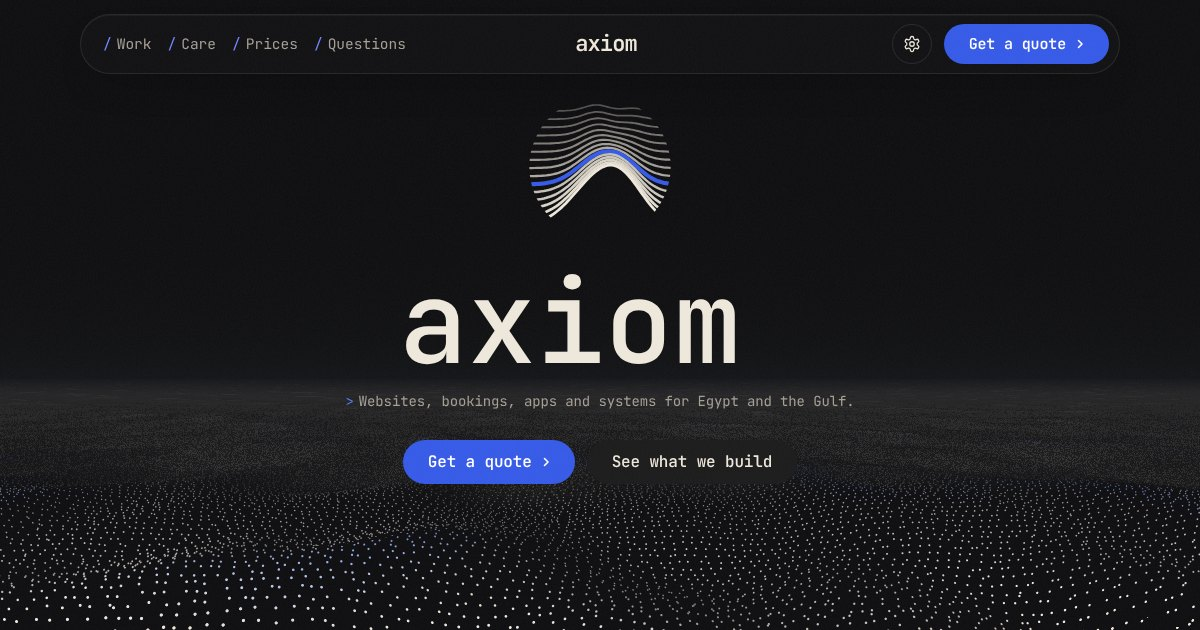
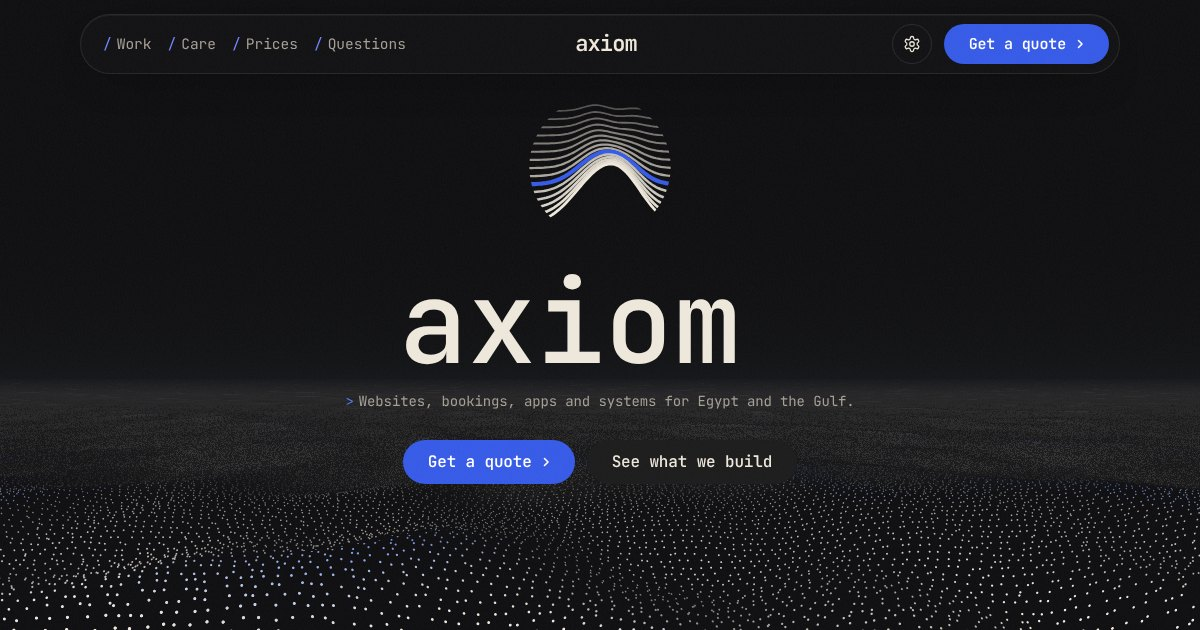
Faster first screen: the intro starts with the first paint, lighter fonts, a shorter opening
Claude-Session: https://claude.ai/code/session_01V4BmkqRESwyhbSGPUhMTQV

diff --git a/assets/css/site.css b/assets/css/site.css
@@ -361,7 +361,7 @@ html[lang="ar"] .hero--field .hero__lead { font-family: "Readex Pro", var(--font
 .hero__mark { width: clamp(140px, 13vw, 190px); height: auto; overflow: visible; margin-bottom: var(--s-2); color: #ede7da; }
 html[data-theme="light"] .hero__mark { color: #141416; }
 .tm-l { stroke: currentColor; stroke-dasharray: 1; stroke-dashoffset: 1;
-  animation: tm-draw 1.3s cubic-bezier(.65,0,.35,1) calc(.1s + var(--i) * 55ms) forwards; }
+  animation: tm-draw .9s cubic-bezier(.65,0,.35,1) calc(var(--i) * 30ms) forwards; }
 .tm-crest { stroke: var(--logo-b, #3358e6); }
 @keyframes tm-draw { to { stroke-dashoffset: 0; } }
 @keyframes tm-fade { to { opacity: 1; } }
@@ -370,9 +370,9 @@ html[data-theme="light"] .hero__mark { color: #141416; }
 /* the name, with its terminal cursor */
 .hero__cursor { display: inline-block; width: .42em; height: .1em; align-self: flex-end; margin-block-end: .16em; margin-inline-start: .1em;
   background: var(--logo-b, #3358e6); animation: pm-blink 1.1s steps(1) infinite; }
-.hero--field .hero__lead, .hero--field .btn-row { animation: pm-rise .7s cubic-bezier(.22,1,.36,1) both; }
-.hero--field .hero__lead { animation-delay: .5s; }
-.hero--field .btn-row { animation-delay: .65s; }
+.hero--field .hero__lead, .hero--field .btn-row { animation: pm-rise .5s cubic-bezier(.22,1,.36,1) both; }
+.hero--field .hero__lead { animation-delay: .12s; }
+.hero--field .btn-row { animation-delay: .22s; }
 @keyframes pm-rise { from { opacity: 0; transform: translateY(10px); } to { opacity: 1; transform: none; } }
 
 @media (prefers-reduced-motion: reduce) {
@@ -408,9 +408,7 @@ main > :is(section, .section):not(.hero), footer.closing { height: auto; min-hei
 /* ================================================================ the intro waits for its cue (site.js) */
 html.js-intro:not(.is-ready) :is(.tm-l, .hero__cursor),
 html.js-intro:not(.is-ready) .hero--field :is(.hero__lead, .btn-row) { animation-play-state: paused !important; }
-html.js-intro:not(.is-ready) .hero__name { opacity: 0; }
-.hero__name { transition: opacity .6s cubic-bezier(.22,1,.36,1) .25s; }
-.hero--field .hero__fx canvas { transition: opacity 1.1s ease !important; }
+.hero--field .hero__fx canvas { transition: opacity .6s ease !important; }
 
 /* ================================================================ settings: language and theme */
 .set { position: relative; }

diff --git a/index.html b/index.html
@@ -15,10 +15,10 @@
 <!-- <link rel="canonical" href="https://[the client's domain]/"> -->
 <meta name="site-kind" content="software">
 <meta name="page-type" content="software">
-<script>try{var d=document.documentElement;d.classList.add("js-intro");if(localStorage.getItem("axiom.theme")==="light"){d.dataset.theme="light";}}catch(e){}</script>
+<script>(function(){var d=document.documentElement,go=function(){d.classList.add("is-ready")};d.classList.add("js-intro");try{if(localStorage.getItem("axiom.theme")==="light"){d.dataset.theme="light";}var l=localStorage.getItem("axiom.lang");if(l==="ar"||l==="en"){var f=document.fonts?document.fonts.ready:null;setTimeout(go,400);if(f)f.then(function(){requestAnimationFrame(go)});}}catch(e){go();}})();</script>
 <link rel="preconnect" href="https://fonts.googleapis.com">
 <link rel="preconnect" href="https://fonts.gstatic.com" crossorigin>
-<link href="https://fonts.googleapis.com/css2?family=Outfit:wght@400..700&family=JetBrains+Mono:wght@300..700&family=DM+Mono:wght@400;500&family=Readex+Pro:wght@400;500&display=swap" rel="stylesheet">
+<link href="https://fonts.googleapis.com/css2?family=JetBrains+Mono:wght@400;500;600&family=Readex+Pro:wght@400;500&family=Outfit:wght@400;500;600&display=swap" rel="stylesheet">
 <link rel="stylesheet" href="assets/system.css">
 <link rel="stylesheet" href="assets/ui/cards.css">
 <link rel="stylesheet" href="assets/motion/motion.css">
@@ -45,7 +45,7 @@ html[lang="ar"] { --font-display: "Readex Pro", "JetBrains Mono", sans-serif; --
 <link rel="stylesheet" href="assets/css/screens.css">
 <link rel="stylesheet" href="assets/css/site.css">
 <script>document.documentElement.classList.add('m-enter');setTimeout(()=>document.documentElement.classList.add('m-enter-done'),700)</script>
-<script src="assets/backgrounds/backgrounds.js"></script>
+<script src="assets/backgrounds/backgrounds.js" defer></script>
 <script>document.documentElement.classList.add('mo-js');setTimeout(()=>document.documentElement.classList.add('mo-safe'),2500)</script>
 <link rel="modulepreload" href="assets/moments/moments.js">
 <link rel="modulepreload" href="assets/moments/lib.js">

diff --git a/assets/js/site.js b/assets/js/site.js
@@ -425,7 +425,7 @@ function openGate() {
   for (const b of $$(".gate__btn", gate)) b.addEventListener("click", () => choose(b.dataset.lang));
   addEventListener("keydown", (e) => { if (e.key === "Escape" && gate.isConnected) choose(lang); });
   document.body.classList.add("is-locked");
-  setTimeout(() => { gate.classList.add("is-open"); $(".gate__btn", gate).focus({ preventScroll: true }); }, 500);
+  setTimeout(() => { gate.classList.add("is-open"); $(".gate__btn", gate).focus({ preventScroll: true }); }, 120);
 }
 
 function paintPrices() {
@@ -566,7 +566,7 @@ function countUp(scope) {
 buildClinics();
 const chosen = lang === "ar" || lang === "en";
 applyLang(chosen ? lang : ((navigator.language || "").toLowerCase().startsWith("ar") ? "ar" : "en"), chosen);
-if (chosen) { $("#gate").remove(); introWhenReady(); } else openGate();
+if (chosen) { $("#gate").remove(); introWhenReady(); } else openGate();   // (the head script usually starts the intro first)
 settings();
 
 for (const b of [$("#mEG"), $("#mGulf")]) b.addEventListener("click", () => {
@@ -592,15 +592,9 @@ function introGo() {
   requestAnimationFrame(() => requestAnimationFrame(() => d.classList.add("is-ready")));
 }
 function introWhenReady() {
-  const t0 = performance.now();
+  // the fonts, or half a second, whichever comes first: the field of points fades in on its own
   const fonts = document.fonts ? document.fonts.ready : Promise.resolve();
-  fonts.then(() => {
-    (function wait() {
-      const c = $(".hero__fx canvas");
-      if ((c && c.style.opacity === "1") || performance.now() - t0 > 1600) introGo();
-      else requestAnimationFrame(wait);
-    })();
-  });
+  Promise.race([fonts, new Promise((r) => setTimeout(r, 500))]).then(introGo);
 }
 
 /* =========================== settings: language and theme =========================== */
